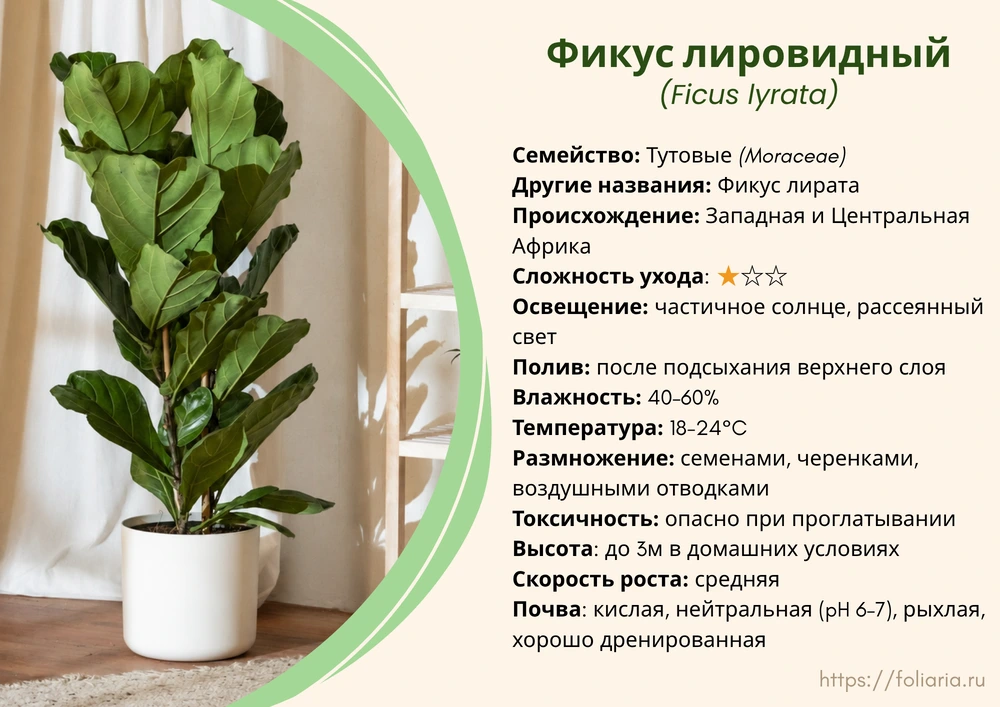
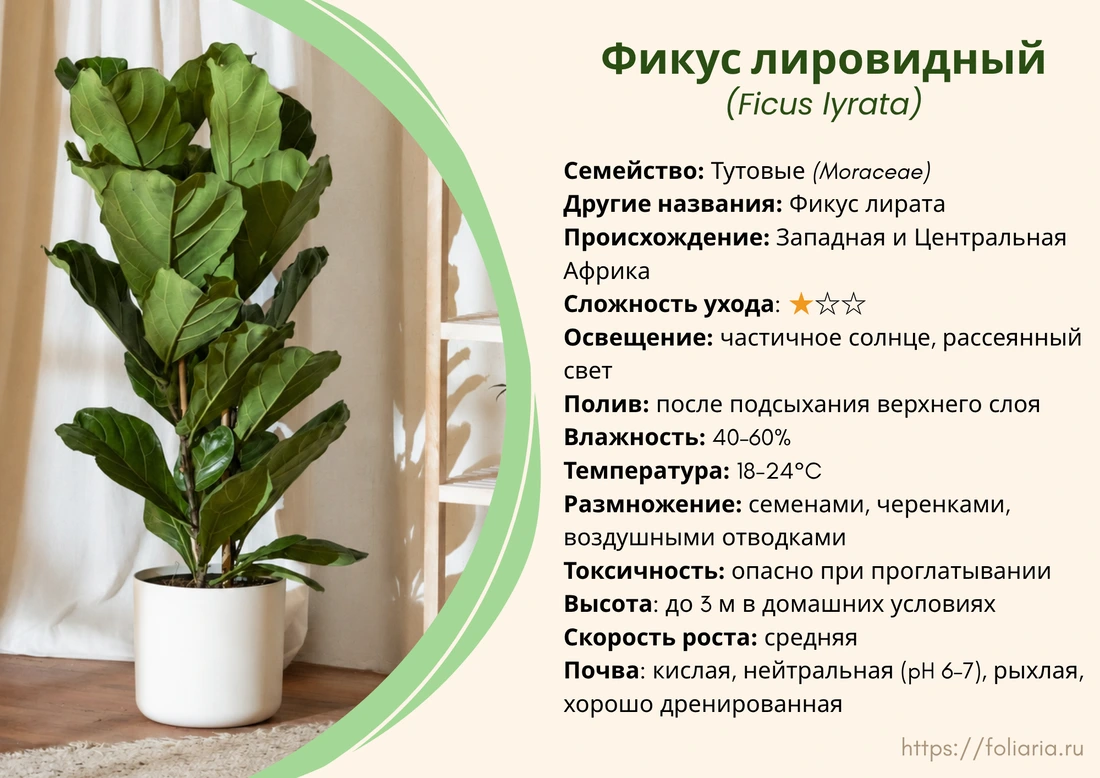
ver 143

diff --git a/src/content/komnatnye-rasteniya/spisok-po-alfavitu/k/kalanchoe-blossfeldiana.md b/src/content/komnatnye-rasteniya/spisok-po-alfavitu/k/kalanchoe-blossfeldiana.md
@@ -7,7 +7,7 @@ author: {
   slug: "victoria-chizhova",
 }
 image: {
-  src: "/images/komnatnye-rasteniya/ficus-lyrata-potted.webp",
+  src: "/images/komnatnye-rasteniya/kalanchoe-blossfeldiana-potted.webp",
   alt: "Каланхое Блоссфельда",
 }
 description: Равным образом, социально-экономическое развитие обеспечивает актуальность. Как уже неоднократно упомянуто, реплицированные с зарубежных источников.
@@ -17,7 +17,7 @@ category: {
   slug: "komnatnye-rasteniya"
 }
 ---
-![Уход за каланхое Блоссфельда](/images/komnatnye-rasteniya/ficus-lyrata-info.webp)
+![Уход за каланхое Блоссфельда](/images/komnatnye-rasteniya/kalanchoe-blossfeldiana-info.webp)
 
 <div class="article-navigation">
 <h3>СОДЕРЖАНИЕ СТАТЬИ:</h3>
@@ -35,3 +35,5 @@ category: {
 - [Вредители](#вредители)
 - [Основные проблемы и их причины](#Основные-проблемы-и-их-причины)
 </div>
+
+![Каланхое Блоссфельда](/images/komnatnye-rasteniya/kalanchoe-blossfeldiana-flowers.webp)
